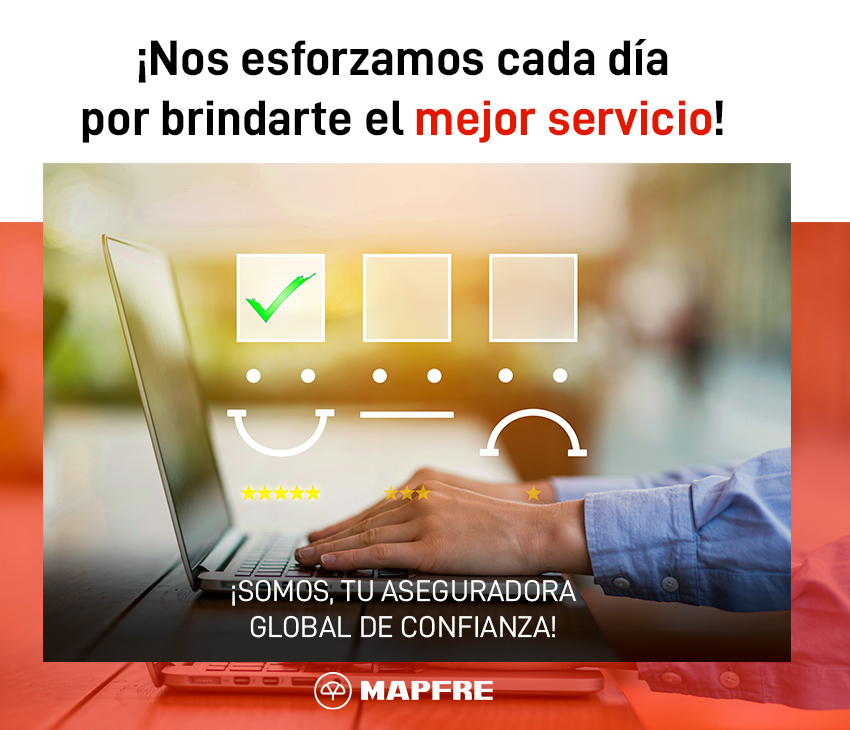
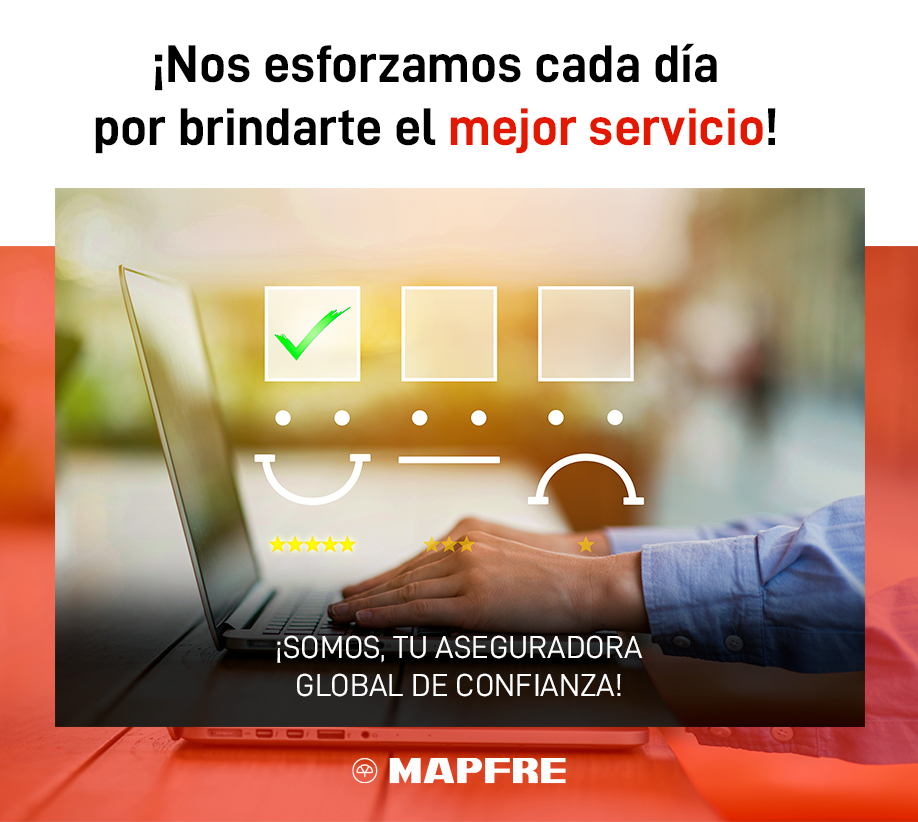
Nuevos Arreglos: Login - Header - Noticias

diff --git a/webapp/app/css/mapfre.css b/webapp/app/css/mapfre.css
@@ -85,7 +85,6 @@ body.Mapfre {
 
 .Mapfre .wrapper-content {
     margin-top: 5%;
-    /* padding: 30px 15px; */
 }
 
 .Mapfre #page-wrapper {
@@ -662,7 +661,7 @@ body.mini-navbar .nav-header {
 }
 
 .ult_in {
-    max-height: 280px;
+    max-height: 378px;
     overflow-y: scroll;
 }
 
@@ -686,11 +685,6 @@ body.mini-navbar .nav-header {
     border-radius: 5px;
 }
 
-.gray-bg::-webkit-scrollbar-thumb {
-    background: #c31f05;
-    border: 0px none;
-    border-radius: 5px;
-}
 
 .prev_scroll::-webkit-scrollbar-thumb {
     background: var(--prewiew1) !important;
@@ -849,7 +843,7 @@ body.mini-navbar .nav-header {
     position: absolute;
     z-index: 3000;
     background-color: rgb(232, 235, 237);
-    width: 128%;
+    width: 62%;
     height: 110%;
     border: 1.5px solid rgb(103, 106, 108);
     border-radius: 5px;
@@ -857,6 +851,9 @@ body.mini-navbar .nav-header {
     margin-top: -8px;
     margin-bottom: -10px;
 }
+
+
+
 
 
 .part_noticias h3 {
@@ -1084,7 +1081,7 @@ a {
     width: 100%;
     display: flex;
     align-items: center;
-    justify-content: start;
+    justify-content: space-between;
     border-bottom: 2px solid var(--mapfrered1);
     padding-bottom: 5px;
     background: #fff;
@@ -1141,9 +1138,8 @@ a {
 .aliados {
     display: flex;
     align-items: center;
-    justify-content: center;
+    justify-content: space-between;
     margin-right: 60px;
-    width: 20%;
 }
 
 .dropdown .dropdown-menu {
@@ -1287,7 +1283,6 @@ a {
 
 @media screen and (max-width: 640px) {
     .head_prin {
-        /* padding: 10px 0px; */
     }
 
     .ham-icon {
@@ -1331,7 +1326,6 @@ a {
 
     .circulo {
         margin-bottom: 3px;
-        /* width: 60px; */
         height: 60px;
         background: rgb(255 255 255 / 0%);
         overflow: hidden;
@@ -1535,10 +1529,10 @@ a {
     flex-wrap: wrap;
     flex-direction: column;
     line-height: 2px;
-    justify-content: center;
     margin-top: 8px;
     align-items: center;
     font-weight: 900;
+    text-align: center;
 }
 
 @media screen and (min-width: 1280px) {
@@ -1557,7 +1551,6 @@ a {
 #UserNameMaster {
     line-height: 15px;
     margin: 0;
-    width: 122px;
 }
 
 .boxresumen {
@@ -1587,6 +1580,7 @@ a {
 
 .btn.disabled, .btn:disabled:hover {
     background: none;
+    color: #18a689
 }
 
 .fixed-table-pagination {
@@ -2449,5 +2443,39 @@ div.ham-menu {
 
     100% {
         transform: translateY(12px) rotate(0deg);
+    }
+}
+
+
+@media screen and (max-width: 1280px) and (min-width: 648px) {
+    .noticias .col iframe {
+        width: 500px !important;
+        height: auto;
+    }
+
+    .part_noticias .noticias {
+        height: 110%
+    }
+}
+
+@media screen and (max-width: 1163.64px) and (min-width: 589.09px) {
+    .noticias .col iframe {
+        width: 450px !important;
+        height: auto;
+    }
+
+    .part_noticias .noticias {
+        height: 100%
+    }
+}
+
+@media screen and (max-width: 1025px) and (min-width: 518.40px) {
+    .noticias .col iframe {
+        width: 390px !important;
+        height: auto;
+    }
+
+    .part_noticias .noticias {
+        height: 99%
     }
 }

diff --git a/webapp/assets/css/style.css b/webapp/assets/css/style.css
@@ -5405,7 +5405,6 @@ samp {
 
 body {
     font-family: "open sans", "Helvetica Neue", Helvetica, Arial, sans-serif;
-    background-color: #2f4050;
     font-size: 13px;
     color: var(--mapfregray1);
     overflow-x: hidden;
